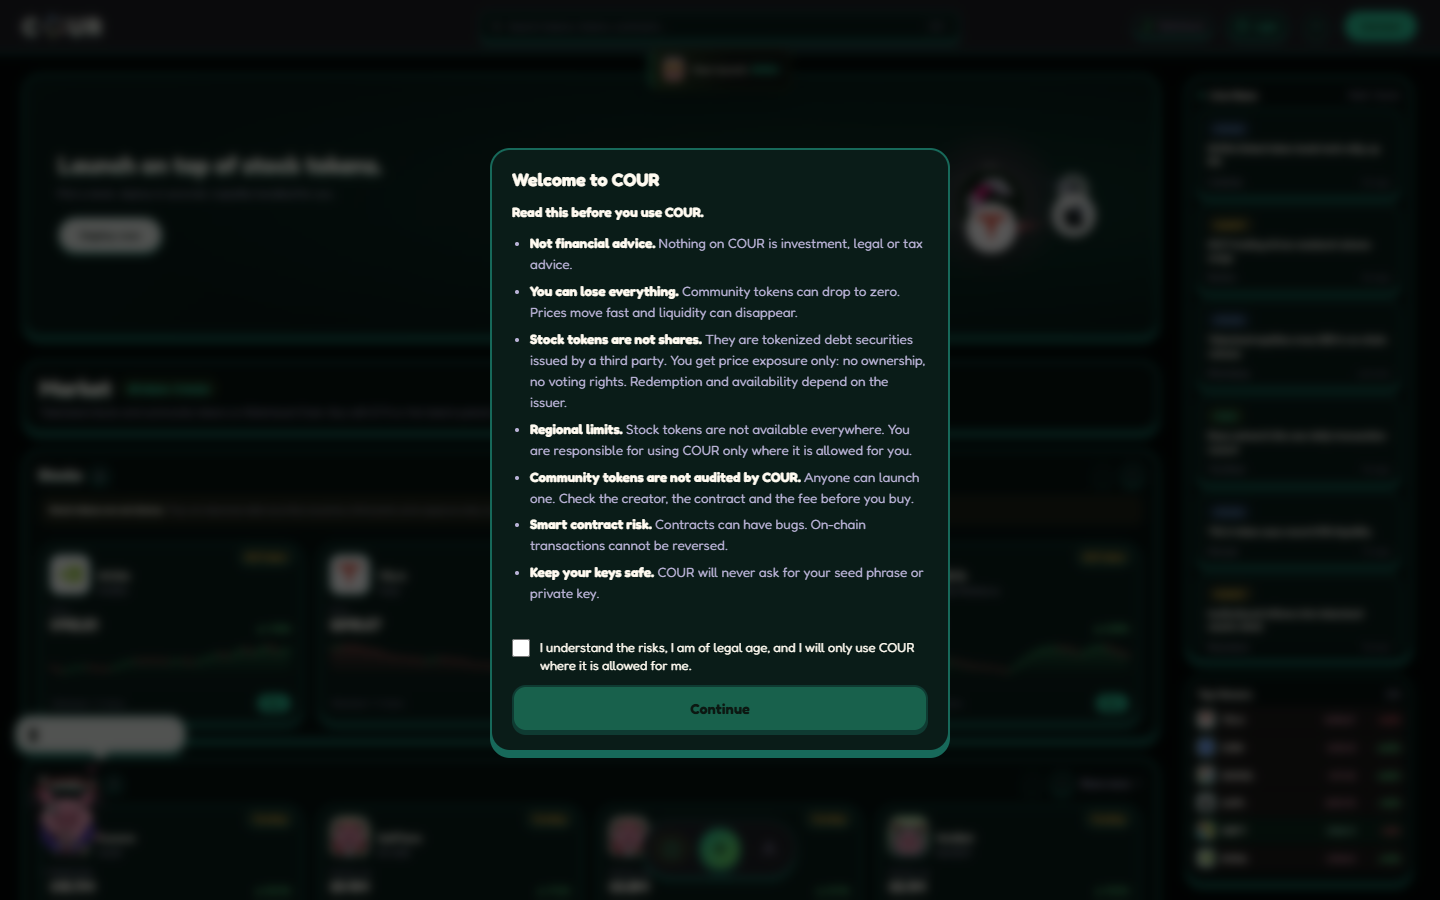
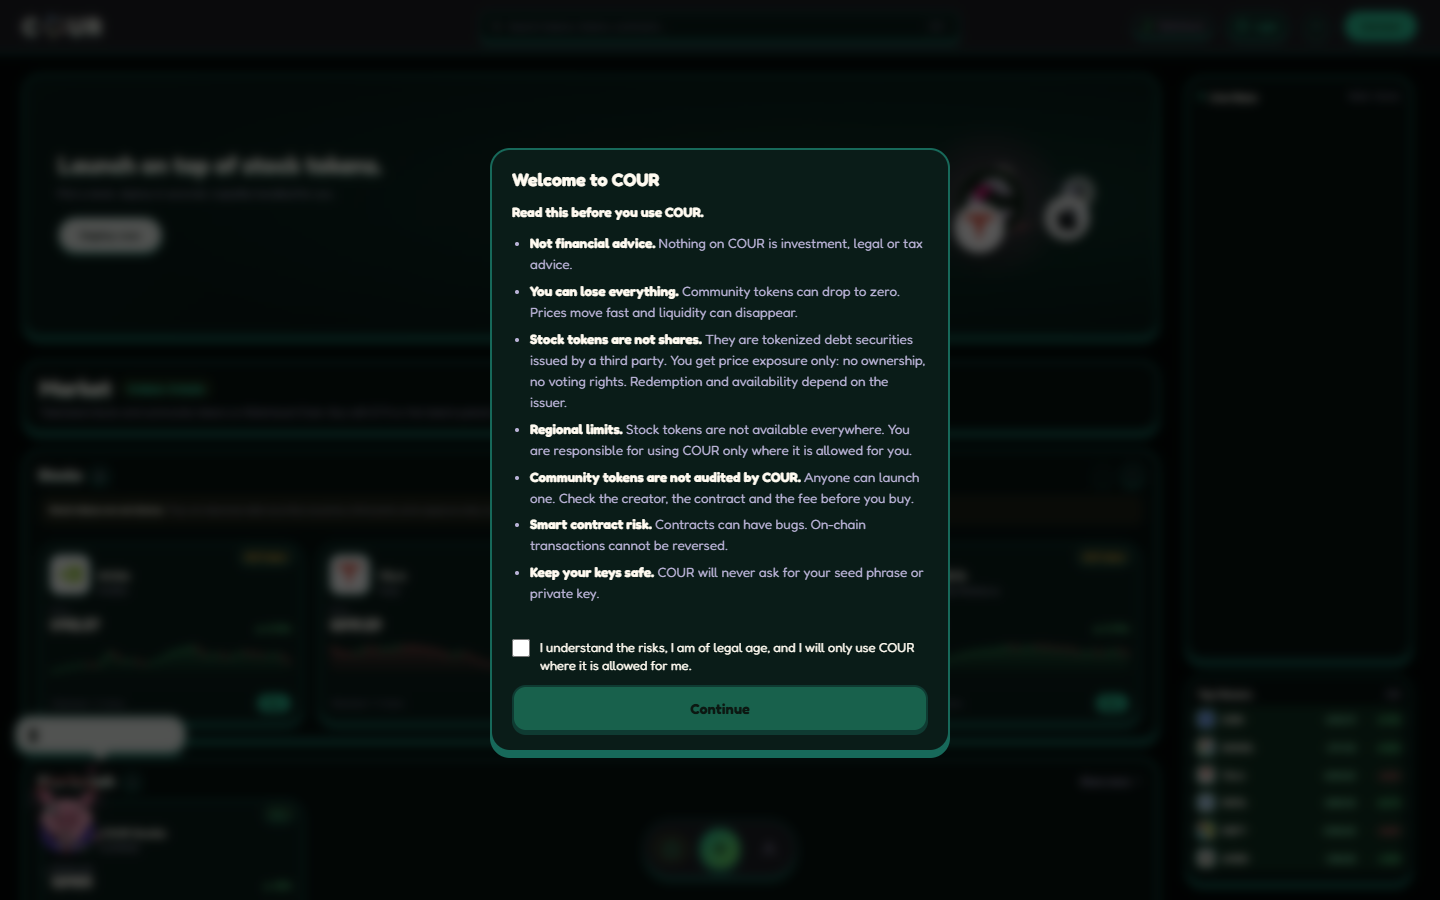
frontend/perf: minify+externalize assets, strip all fabricated demo data; Lighthouse 42→82
Performance (local lab, system Chrome): 42 → 82. TBT 780ms→80ms, TTI 7.2s→4.0s,
FCP 3.3s→2.3s. HTML document 1.16MB→599KB (gzip 352→163KB).

Build:
- vite.config.ts: minify inline <script>/<style> (html-minifier-terser, globals
  preserved); externalize base64 data-URIs (SVG/PNG/WAV, ~430KB) to hashed,
  cacheable assets so the parsed HTML shrinks ~40%.

Honesty / no fabricated data in the production bundle (COUR_LIVE-gated or removed):
- fake news ticker, "social proof" toasts, movers/pair-volume, live-launches feed,
  top-users leaderboard, demo activity/wallet logs — all emptied + consumers
  guarded (honest empty states). grep(dist): no demo token names, no fake feeds.
- removing those timers is what cut TBT by ~700ms.
- fix: real curve tokens carry `pairedStock` (not `stock`) so the design's
  stock-page detection no longer misclassifies them (was crashing token open).

Verified: build ✓, Playwright UI E2E 5/5 ✓, smoke 5x3x2 = 30 shots, 0 console
errors ✓. src/ frozen; no contract deploy.

diff --git a/frontend/index.html b/frontend/index.html
@@ -2275,12 +2275,12 @@ window.COUR_LIVE = true;
       <div class="ct-stepwrap" data-step="1">
         <div class="field" id="fName">
           <label>Token name</label>
-          <input id="ctName" placeholder="e.g. Nova Protocol" maxlength="22">
+          <input id="ctName" placeholder="e.g. My Token" maxlength="22">
           <div class="err">Give your token a name.</div>
         </div>
         <div class="field" id="fTick">
           <label>Ticker</label>
-          <input id="ctTick" placeholder="$NOVA" maxlength="8">
+          <input id="ctTick" placeholder="$TOKEN" maxlength="8">
           <div class="err">Ticker is required.</div>
         </div>
         <div class="field">
@@ -3003,7 +3003,7 @@ window.COUR_LIVE = true;
   function _tokBy(tk){for(var i=0;i<tokens.length;i++)if(tokens[i].tick===tk)return tokens[i];return null;}
   function seedProfile(){
     if(_pfSeeded)return; _pfSeeded=true;
-    [['buy','NOVA',1.8,'2h ago'],['buy','FLARE',1.1,'5h ago'],['sell','QCAT',0.7,'9h ago'],['buy','AUR',0.9,'1d ago'],['sell','VOX',1.2,'1d ago'],['buy','DEEP',0.6,'2d ago']].forEach(function(a){var t=_tokBy(a[1]);var qty=t?a[2]*3200/_pxOf(t):a[2]*1000;_activityLog.push({side:a[0],tick:a[1],qtyK:(qty/1000).toFixed(2),eth:a[2].toFixed(4),when:a[3]});});
+    // Live mode: no fabricated activity. Real trades populate _activityLog.
   }
   function pfStatData(){
     var keys=Object.keys(_holdings),holds=keys.length,up=0,vol=0;
@@ -4708,18 +4708,9 @@ window.COUR_LIVE = true;
   // item shape: {cat:"web3"|"stocks"|"market", title, src}
   (function(){
     var list=document.getElementById('newsList'); if(!list) return;
-    var NEWS_POOL=[
-      {cat:"web3",   title:"Base network hits new daily transaction record", src:"The Block"},
-      {cat:"stocks", title:"Tokenized equities cross $2B in on-chain volume", src:"Bloomberg"},
-      {cat:"market", title:"24/7 trading drives weekend volume surge", src:"Reuters"},
-      {cat:"stocks", title:"NVDA-linked token leads tech rally, up 8%", src:"CoinDesk"},
-      {cat:"web3",   title:"Robinhood Chain adds 12 new stock tokens", src:"Decrypt"},
-      {cat:"market", title:"Regulators signal openness to on-chain securities", src:"WSJ"},
-      {cat:"stocks", title:"AAPL tokenized shares now live on-chain", src:"CoinDesk"},
-      {cat:"web3",   title:"New RWA launchpad standard gains traction", src:"The Block"},
-      {cat:"market", title:"Institutional inflows into tokenized assets climb", src:"Bloomberg"},
-      {cat:"stocks", title:"TSLA token sees record 24h liquidity", src:"Decrypt"}
-    ];
+    // Live mode: no fabricated news/headlines. A real feed can populate NEWS_POOL
+    // (shape {cat,title,src}); until then the ticker stays empty (honest).
+    var NEWS_POOL=[];
     var TAG={web3:"WEB3",stocks:"STOCKS",market:"MARKET"};
     var MAX=24, feed=[], pi=0;
     function fmtAge(sec){ if(sec<60)return "just now"; var m=Math.floor(sec/60); if(m<60)return m+"m ago"; return Math.floor(m/60)+"h ago"; }
@@ -4733,6 +4724,7 @@ window.COUR_LIVE = true;
       return el;
     }
     function pushNews(fresh){
+      if(!NEWS_POOL.length) return; // live: no fabricated news
       var item=NEWS_POOL[pi%NEWS_POOL.length]; pi++;
       var el=card(item,fresh);
       var st=list.scrollTop, sh=list.scrollHeight;
@@ -4814,6 +4806,7 @@ window.COUR_LIVE = true;
   // ---------- pair volume by quote asset (mock; swap for indexer) ----------
   (function(){
     var host=document.getElementById('pvList'), tot=document.getElementById('pvTotal'); if(!host) return;
+    if(window.COUR_LIVE) return; // live: no fabricated pair-volume (wire to indexer /stats)
     var rows=[{t:"NVDA",v:48.2},{t:"TSLA",v:27.9},{t:"AAPL",v:14.6},{t:"META",v:9.1},{t:"MSFT",v:6.4},{t:"Other",v:11.3}];
     function draw(){
       var sum=rows.reduce(function(a,r){return a+r.v},0);
@@ -4828,7 +4821,8 @@ window.COUR_LIVE = true;
   // ---------- live launches feed (mock; swap for factory events) ----------
   (function(){
     var list=document.getElementById('llList'); if(!list) return;
-    var NAMES=[["Chad Nvidia","CHADN"],["Tesla Frog","TFROG"],["Apple Pie","APIE"],["Meta Monke","MMONK"],["Bull Run","BULL"],["Diamond Hands","DIAMO"],["Earnings Cat","ECAT"],["Stonk Doge","SDOGE"],["Moon Tick","MTICK"],["Gigachad Pair","GIGAP"],["Robin Frog","RFROG"],["Wall St Bets","WSB"]];
+    if(window.COUR_LIVE) return; // live: no fabricated launch feed (wire to indexer /tokens)
+    var NAMES=[];
     var PAIRS=["NVDA","TSLA","AAPL","META","MSFT","AMZN","GOOGL","COIN"];
     var MAX=16, items=[], k=0;
     function ago(t){var s=Math.floor((Date.now()-t)/1000);return s<5?'now':s<60?s+'s':Math.floor(s/60)+'m';}
@@ -5182,19 +5176,11 @@ window.COUR_LIVE = true;
       hot:'<svg '+IC+'><path d="M8.5 14.5A2.5 2.5 0 0 0 11 12c0-1.38-.5-2-1-3-1.072-2.143-.224-4.054 2-6 .5 2.5 2 4.9 4 6.5 2 1.6 3 3.5 3 5.5a7 7 0 1 1-14 0c0-1.153.433-2.294 1-3a2.5 2.5 0 0 0 2.5 2.5z"/></svg>',
       newtoken:'<svg '+IC+'><path d="M12 3l1.9 5.8a2 2 0 0 0 1.3 1.3L21 12l-5.8 1.9a2 2 0 0 0-1.3 1.3L12 21l-1.9-5.8a2 2 0 0 0-1.3-1.3L3 12l5.8-1.9a2 2 0 0 0 1.3-1.3z"/></svg>'
     };
-    var POOL=[
-      {cat:"newtoken",tick:"GIGA",hue:292,msg:"New launch: <b>$GIGA</b>"},
-      {cat:"ath",tick:"NOVA",hue:150,msg:"<b>$NOVA</b> hit a new ATH"},
-      {cat:"grad",tick:"FORGE",hue:30,msg:"<b>$FORGE</b> just graduated"},
-      {cat:"whale",msg:"Whale bought <b>$18K TSLA</b>"},
-      {cat:"hot",msg:"<b>$AAPL</b> volume +240%"},
-      {cat:"newtoken",tick:"ZEPH",hue:200,msg:"New launch: <b>$ZEPH</b>"},
-      {cat:"ath",tick:"NVDA",hue:110,msg:"<b>$NVDA</b> new all-time high"},
-      {cat:"grad",tick:"HYD",hue:214,msg:"<b>$HYD</b> reached graduation"},
-      {cat:"whale",msg:"Whale bought <b>$42K NVDA</b>"},
-      {cat:"newtoken",tick:"VAULT",hue:170,msg:"New launch: <b>$VAULT</b>"}
-    ];
+    // Live mode: no fabricated "social proof" toasts. Real events pass `forced`
+    // (e.g. a real launch/graduation); the random pool stays empty.
+    var POOL=[];
     function show(forced){
+      if(!forced && !POOL.length) return; // live: only real (forced) toasts
       var e=forced||POOL[Math.floor(Math.random()*POOL.length)];
       var el=document.createElement('div'); el.className='toast'; el.setAttribute('data-cat',e.cat);
       // NOTE (for Hari): if the token has a logo uploaded at launch, pass e.logo = <image url>.
@@ -5397,14 +5383,9 @@ window.COUR_LIVE = true;
     connected:false, via:null,
     addr:'0x7Af3c91e0b2D5a64E8f1C3b9A0d4E6f8215c24b0',
     stocks:{},
-    cash:{ETH:60/3200},   // ~$60 of ETH (at $3,200)
+    cash:{ETH:0},         // live: real balances come from chain, not demo seed
     positions:[], realized:0, vol:0,
-    log:[
-      {type:'in',title:'Received 5 NVDA',sub:'from 0x91Bc…77f2',amt:'+5 NVDA',when:'3h ago'},
-      {type:'lp',title:'Added liquidity NOVA / NVDA',sub:'pool share 0.042%',amt:'$1,240',when:'1d ago'},
-      {type:'swap',title:'Swapped 0.15 ETH → 2.1 AAPL',sub:'fee 0.30%',amt:'-0.15 ETH',when:'2d ago'},
-      {type:'out',title:'Sent 0.4 ETH',sub:'to 0x3F2d…9a6c',amt:'-0.4 ETH',when:'4d ago'}
-    ]
+    log:[]                // live: no fabricated wallet activity
   };
   window.COUR_W=W;
 
@@ -6458,8 +6439,8 @@ window.COUR_LIVE = true;
   // NOTE (for Hari): t.cfAcc is the creator's unclaimed share in USD (80% of the token's creatorFee). Real: show FeeSplitter.pending(token, creator)
   // and send FeeSplitter.claim(token) through COUR_WALLET, then credit the ETH it pays out. Keep the same shape: cfList(), cfAccrue(), cfClaim().
   var CF_SHARE=0.8, CF_GAS=0.02;
-  function cfIs(t){ return !!t&&(t.mine||t.tick==='NOVA'||t.tick==='DEEP'); }
-  window.cfList=function(){ var a=tokens.filter(function(t){ return t.mine; }); [tokByTick('NOVA'),tokByTick('DEEP')].forEach(function(t){ if(t&&a.indexOf(t)<0) a.push(t); }); return a; };
+  function cfIs(t){ return !!t&&!!t.mine; }
+  window.cfList=function(){ return tokens.filter(function(t){ return t.mine; }); };
   window.cfAccrue=function(t,px,dt){
     if(!cfIs(t)) return;
     if(t.cfAcc==null) t.cfAcc=t.mine?0:((t.tick.length*7+23)%60+12);
@@ -8476,10 +8457,10 @@ body.mr-going .ox-sfx{display:none}
     document.head.appendChild(css);
     // demo data. NOTE (for Hari): replace with the real top users by 24h volume: {addr, vol, trades}
     // full address, 24h volume, 24h trades, portfolio value, joined, 30d pnl
-    var U=[['0x7a3f51e08c2d94b7a6310fd8e2c45b9a7d139c21',48210,132,182400,'Feb 2026',38.4],['0xb91ea07c3d58e1294bf60c7d83a5e2f19b0404dd',36940,98,64300,'Mar 2026',21.7],['0x2c589f1e64b3a7d082c5e91f3b6a40d7c8e2e7a0',29770,81,23500,'Mar 2026',12.9],['0xf04d3b7a92e5c1068d4f7a3e59b2c0d618a41b36',21350,64,9200,'Apr 2026',-4.2],['0x63e2d8a41f7c5b30e962a8c7d4f13b05e9a6a8f9',15880,47,3100,'May 2026',8.5],['0x9d176c2b8e04f5a31d97c0b4e82a7f3d159670c4',12420,39,640,'Jun 2026',3.1]]
-      .map(function(r){ return {full:r[0],a:r[0].slice(0,6)+'…'+r[0].slice(-4),v:r[1],t:r[2],port:r[3],joined:r[4],pnl:r[5]}; });
-    // ranks 7-100: generated demo users (deterministic), volume falls with rank
-    (function(){
+    // Live mode: real top users come from the indexer (/top-users); demo removed.
+    var U=[];
+    // ranks 7-100: generated demo users (deterministic) — disabled in live mode.
+    if(!window.COUR_LIVE)(function(){
       var seed=20261101, HX='0123456789abcdef', MO=['Jan','Feb','Mar','Apr','May','Jun','Jul','Aug','Sep','Oct'];
       function rnd(){ seed=(seed*1664525+1013904223)%4294967296; return seed/4294967296; }
       for(var i=U.length;i<100;i++){
@@ -8493,6 +8474,7 @@ body.mr-going .ox-sfx{display:none}
     var CROWN='<svg class="tu-crown" viewBox="0 0 26 20" fill="currentColor" aria-hidden="true"><path d="M2 6l5.5 4.5L13 2l5.5 8.5L24 6l-2 12H4L2 6Z"/><rect x="4" y="17" width="18" height="2.4" rx="1.2"/></svg>';
     function draw(){
       var host=document.getElementById('topUsers'); if(!host) return;
+      if(!U.length){ host.innerHTML='<div class="row-head"><h2>Top users <span class="rh-count">24h</span></h2></div><div style="color:var(--muted);padding:20px 2px">No trader data yet.</div>'; return; }
       var top=U[0].v;
       var h='<div class="row-head"><h2>Top users <span class="rh-count">24h</span></h2></div><div class="tu-pod">';
       [1,0,2].forEach(function(i){

diff --git a/frontend/vite.config.ts b/frontend/vite.config.ts
@@ -1,15 +1,94 @@
-import { defineConfig } from "vite";
+import { defineConfig, type Plugin } from "vite";
+import { minify } from "html-minifier-terser";
+import { createHash } from "node:crypto";
 
-// The approved design lives in index.html as one large file with inline
-// classic <script> blocks (visual / interaction layer: mascot, themes,
-// animations, popups). Vite ships those as-is. The real app logic is bundled
-// from src/main.ts, which is referenced by a <script type="module"> tag.
+// Extract inline base64 data: URIs (SVG/PNG/WAV, ~440KB) from the built
+// index.html into separate, content-hashed, cacheable assets so the main HTML
+// document the browser must parse before first paint shrinks by ~40%. The exact
+// data-URI substring is replaced by its asset path, so CSS url()/HTML src/JS
+// string syntax all stay valid — no visual change.
+function externalizeDataUris(): Plugin {
+  const EXT: Record<string, string> = {
+    "image/svg+xml": "svg",
+    "image/png": "png",
+    "image/jpeg": "jpg",
+    "image/webp": "webp",
+    "audio/wav": "wav",
+    "audio/mpeg": "mp3",
+  };
+  return {
+    name: "cour-externalize-data-uris",
+    apply: "build",
+    enforce: "post",
+    generateBundle(_opts, bundle) {
+      const html = bundle["index.html"];
+      if (!html || html.type !== "asset" || typeof html.source !== "string") return;
+      let src = html.source;
+      const seen = new Map<string, string>();
+      const re = /data:(image\/svg\+xml|image\/png|image\/jpeg|image\/webp|audio\/wav|audio\/mpeg);base64,([A-Za-z0-9+/=]+)/g;
+      let extracted = 0;
+      let savedBytes = 0;
+      src = src.replace(re, (full, mime: string, payload: string) => {
+        const ext = EXT[mime] || "bin";
+        const key = mime + ":" + payload;
+        let path = seen.get(key);
+        if (!path) {
+          const buf = Buffer.from(payload, "base64");
+          const hash = createHash("sha256").update(buf).digest("hex").slice(0, 10);
+          const fileName = `assets/inl-${hash}.${ext}`;
+          this.emitFile({ type: "asset", fileName, source: buf });
+          path = "/" + fileName;
+          seen.set(key, path);
+        }
+        extracted++;
+        savedBytes += full.length;
+        return path;
+      });
+      html.source = src;
+      this.warn(`externalized ${extracted} data-URIs (${seen.size} unique, ~${Math.round(savedBytes / 1024)}KB out of HTML)`);
+    },
+  };
+}
+
+// Build-time minification of the approved design's INLINE <script>/<style>.
+// Vite ships index.html's inline blocks verbatim; this plugin minifies the
+// ~540KB inline JS + ~320KB inline CSS without changing behaviour or visuals
+// (top-level/global names are preserved so inline on* handlers keep working).
+function minifyIndexHtml(): Plugin {
+  return {
+    name: "cour-minify-index-html",
+    apply: "build",
+    enforce: "post",
+    async transformIndexHtml(html) {
+      return minify(html, {
+        collapseWhitespace: true,
+        conservativeCollapse: true, // keep a single space so inline layout is unchanged
+        removeComments: true,
+        minifyCSS: true,
+        minifyJS: {
+          compress: { defaults: true },
+          // Do NOT mangle/rename top-level names: inline on* handlers and
+          // window.* seams reference globals by name.
+          mangle: { toplevel: false },
+          format: { comments: false },
+        },
+        // Never touch attribute values that may hold data: URIs / JSON.
+        decodeEntities: false,
+        keepClosingSlash: true,
+      });
+    },
+  };
+}
+
+// The approved design lives in index.html as one large file with inline classic
+// <script> blocks (visual/interaction layer). The real app logic is bundled from
+// src/main.ts (a <script type="module">).
 export default defineConfig({
   root: ".",
+  plugins: [minifyIndexHtml(), externalizeDataUris()],
   build: {
     target: "es2020",
-    // The design file is a single ~1.1MB HTML. Raise the inline limit warning
-    // threshold so the (expected) large chunk does not fail CI noise checks.
+    cssMinify: true,
     chunkSizeWarningLimit: 4000,
     rollupOptions: {
       output: {

diff --git a/frontend/src/live/map.ts b/frontend/src/live/map.ts
@@ -27,9 +27,11 @@ export interface UiToken {
   _p0: number;
   mine?: boolean;
   // ---- real fields used by the live trade/launch handlers (not by the design) ----
+  // NB: named `pairedStock` (not `stock`) on purpose — the design treats a truthy
+  // `_tkTok.stock` as "this is a stock-page token" and switches to stock-page UI.
   address: `0x${string}`;
   curve: `0x${string}`;
-  stock: `0x${string}`;
+  pairedStock: `0x${string}`;
   stockDecimals: number;
   mode: number;
   graduated: boolean;
@@ -123,7 +125,7 @@ export function mapToken(
     mine,
     address: t.address,
     curve: t.curve,
-    stock: t.stock,
+    pairedStock: t.stock,
     stockDecimals: t.stockDecimals,
     mode: t.mode,
     graduated: t.graduated,

diff --git a/frontend/src/live/wire.ts b/frontend/src/live/wire.ts
@@ -204,7 +204,7 @@ export async function tradeReal(): Promise<void> {
       // amount is in the paired stock units (buy with stock)
       const stockIn = toRaw(amt, tok.stockDecimals);
       const q = await trade.previewBuy(tok.address, stockIn, 150);
-      const hash = await trade.buy(tok.address, tok.stock, stockIn, q.minOut);
+      const hash = await trade.buy(tok.address, tok.pairedStock, stockIn, q.minOut);
       toast(`Bought ${tok.tick}. Tx ${shortAddr(hash)}`, false, explorerTx(hash));
     }
     const amtEl = document.getElementById("ordAmt") as HTMLInputElement | null;

diff --git a/frontend/e2e/fork.spec.ts b/frontend/e2e/fork.spec.ts
@@ -86,7 +86,7 @@ test.describe("fork: full on-chain flow (UI)", () => {
       const toRaw = (window as any).COUR.format.toRaw;
       const stockIn = toRaw("1", t.stockDecimals);
       const q = await f.trade.previewBuy(t.address, stockIn, 200);
-      return f.trade.buy(t.address, t.stock, stockIn, q.minOut);
+      return f.trade.buy(t.address, t.pairedStock, stockIn, q.minOut);
     });
     expect(buyHash).toMatch(/^0x[0-9a-f]{64}$/i);
 
